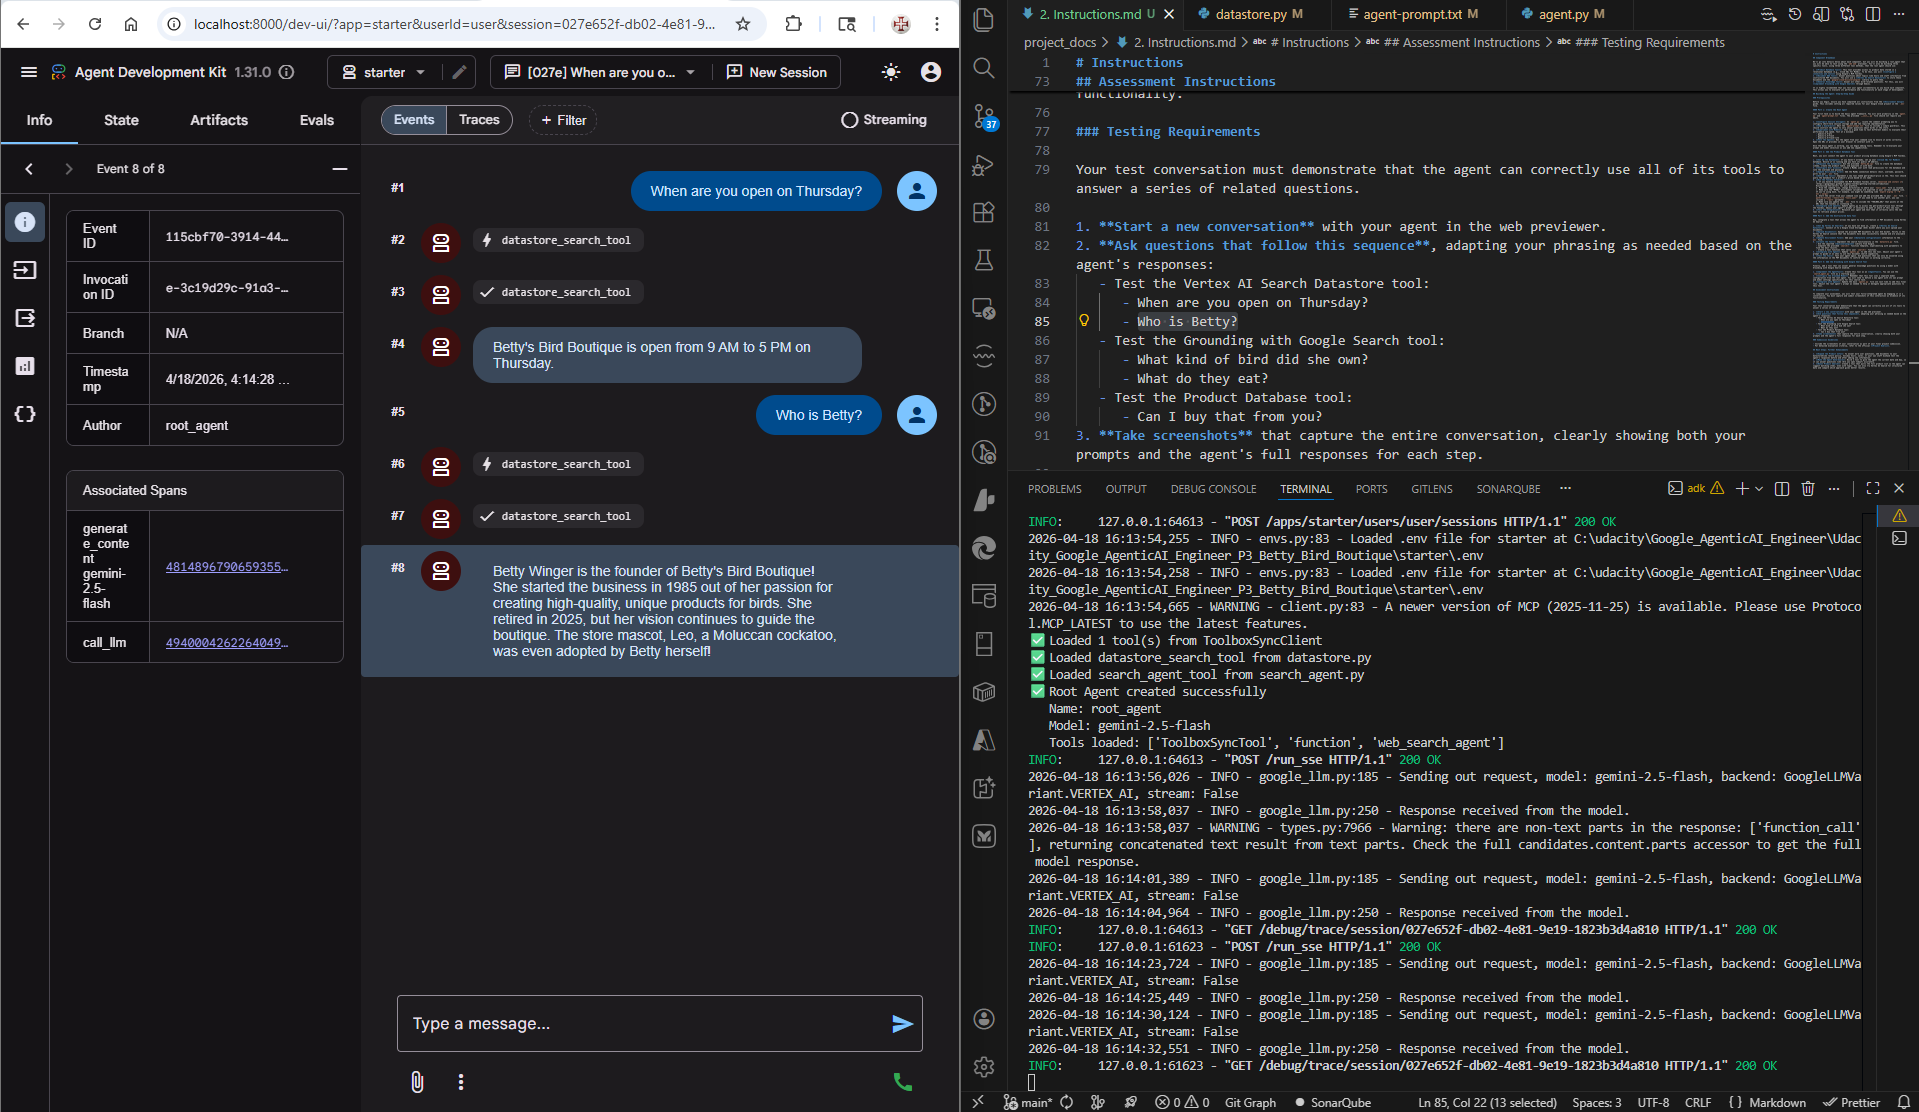
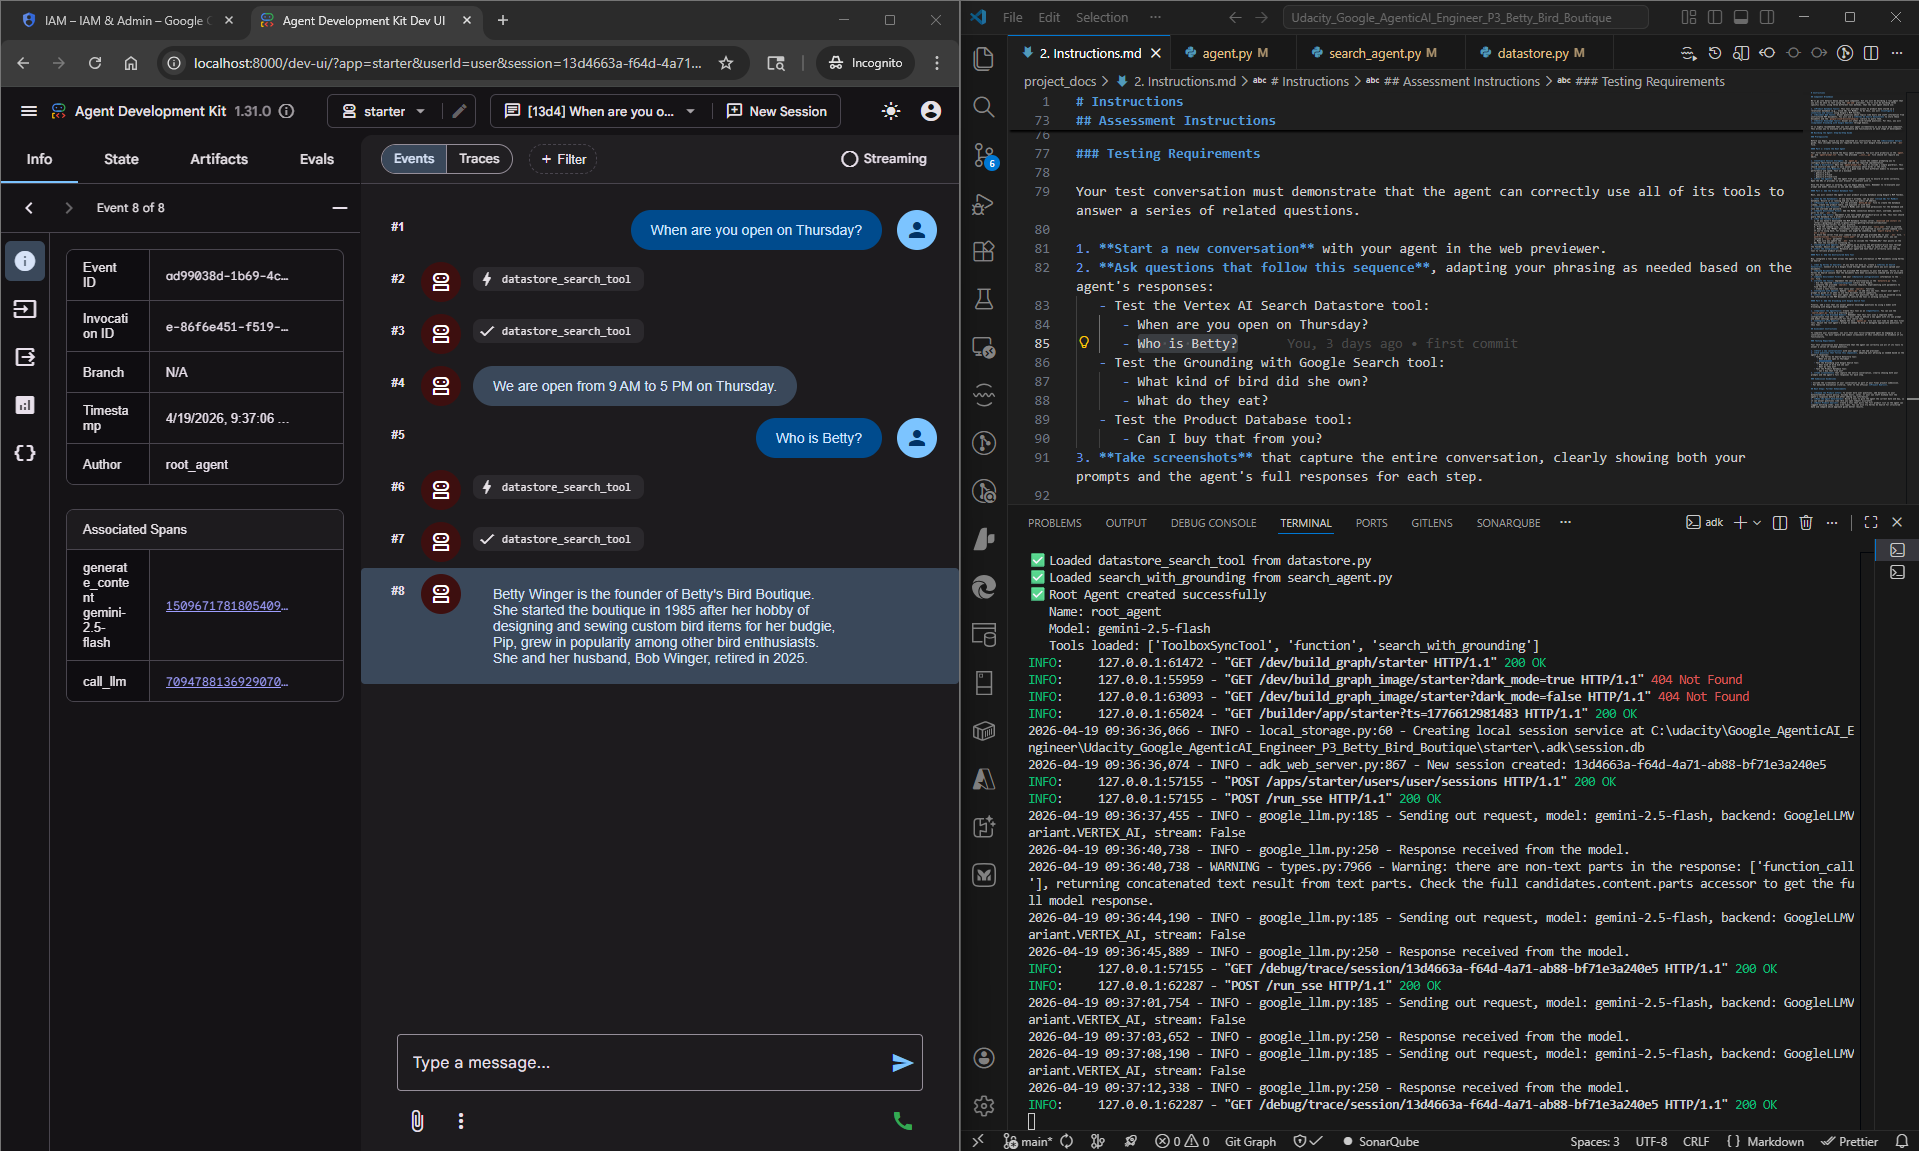
Latest changes after first submission review notes.

Changed region(s): [[0.0, 0.0, 1.0, 1.0], [0.2152, 0.9173, 0.3075, 0.9478], [0.4612, 0.9173, 0.4919, 0.9478]]

diff --git a/starter/agent.py b/starter/agent.py
@@ -5,19 +5,21 @@ from google.adk.runners import Runner
 from google.adk.sessions import InMemorySessionService
 from toolbox_core import ToolboxSyncClient
 from .datastore import datastore_search_tool
-from .search_agent import search_agent_tool
+from .search_agent import search_with_grounding
 
 # Load environment variables from .env
 load_dotenv()
 
 # Model definition
-# Selected for balance of speed and reasoning capability; 
+# Selected for balance of speed and reasoning capability;
 # gemini-2.5-pro offers better accuracy but slower response times,
 # while flash-lite is too lightweight for complex tool orchestration
-model=os.getenv("GEMINI_MODEL", "gemini-2.5-flash")
+model = os.getenv("GEMINI_MODEL", "gemini-2.5-flash")
 
 # Configure short-term session to use the in-memory service
-session_service = InMemorySessionService()  # ✅ RUBRIC REQUIREMENT: Session storage configured
+session_service = (
+    InMemorySessionService()
+)  # ✅ RUBRIC REQUIREMENT: Session storage configured
 
 # Read the instructions from a file in the same directory as this agent.py file.
 script_dir = os.path.dirname(os.path.abspath(__file__))
@@ -32,8 +34,8 @@ tools = []  # Start with empty list
 # This loads get_product_price from MySQL source via MCP Database Toolbox server
 try:
     db_client = ToolboxSyncClient(url=os.getenv("TOOLBOX_URL", "http://127.0.0.1:5000"))
-    database_tools = db_client.load_tool("get_product_price")       # ✅ RUBRIC REQUIREMENT: Load tool from toolbox server
-    tools.append(database_tools)                                    # Add all loaded tools to our list
+    database_tools = db_client.load_tool("get_product_price")  # ✅ RUBRIC REQUIREMENT: Load tool from toolbox server
+    tools.append(database_tools)  # Add all loaded tools to our list
     print(f"✅ Loaded {len(tools)} tool(s) from ToolboxSyncClient")
 except Exception as e:
     print("⚠ Warning: Could not load database tools. Ensure TOOLBOX_URL is set and server is running.")
@@ -41,27 +43,27 @@ except Exception as e:
 
 # Import datastore search tool (from separate file)
 try:
-    tools.append(datastore_search_tool)                             # ✅ RUBRIC REQUIREMENT: Datastore tool integrated
+    tools.append(datastore_search_tool)  # ✅ RUBRIC REQUIREMENT: Datastore tool integrated
     print("✅ Loaded datastore_search_tool from datastore.py")
 except Exception as e:
     print("⚠ Warning: Could not import datastore_search_tool.")
     print(f"   Error: {e}")
 
-# # Import web search tool (from separate file)
+# Import web search tool (from separate file)
 try:
-    tools.append(search_agent_tool)
-    print("✅ Loaded search_agent_tool from search_agent.py")
+    tools.append(search_with_grounding)
+    print("✅ Loaded search_with_grounding from search_agent.py")
 except Exception as e:
-    print("⚠ Warning: Could not import search_agent tool.")
+    print("⚠ Warning: Could not import search_with_grounding.")
     print(f"   Error: {e}")
 
 # Create your agent with proper configuration
 root_agent = Agent(
-    name="root_agent",                       # ✅ RUBRIC REQUIREMENT: Name configured
+    name="root_agent",          # ✅ RUBRIC REQUIREMENT: Name configured
     description="A helpful customer service agent for Betty's Bird Boutique, specializing in bird-related questions and store operations.",  # ✅ RUBRIC REQUIREMENT: Description configured
-    instruction=instruction,                 # ✅ RUBRIC REQUIREMENT: Instruction parameter reads from file
-    model=model,                             # ✅ RUBRIC REQUIREMENT: Selected for best balance of speed and reasoning capability
-    tools=tools,                             # ✅ RUBRIC REQUIREMENT: All required tools added to agent
+    instruction=instruction,    # ✅ RUBRIC REQUIREMENT: Instruction parameter reads from file
+    model=model,                # ✅ RUBRIC REQUIREMENT: Selected for best balance of speed and reasoning capability
+    tools=tools,                # ✅ RUBRIC REQUIREMENT: All required tools added to agent
 )
 
 # Print confirmation
@@ -69,12 +71,15 @@ print("✅ Root Agent created successfully")
 print(f"   Name: {root_agent.name}")
 print(f"   Model: {root_agent.model}")
 if root_agent.tools:
-    print(f"   Tools loaded: {[getattr(t, 'name', type(t).__name__) for t in root_agent.tools]}")
+    print(
+        f"   Tools loaded: {[getattr(t, 'name', type(t).__name__) for t in root_agent.tools]}"
+    )
 else:
     print("   No tools loaded.")
 
+# Defines the ADK Runner for the root_agent
 runner = Runner(
     agent=root_agent,
-    session_service=session_service,         # ✅ RUBRIC REQUIREMENT: InMemorySessionService passed to the Runner
+    session_service=session_service,  # ✅ RUBRIC REQUIREMENT: InMemorySessionService passed to the Runner
     app_name="bettys_bird_boutique",
 )

diff --git a/starter/datastore.py b/starter/datastore.py
@@ -7,6 +7,7 @@ from google.cloud import storage
 # Load environment variables from .env
 load_dotenv()
 
+
 def fetch_gcs_content(gcs_uri: str) -> str:
     """
     Fetch the text content of a file from Google Cloud Storage.
@@ -29,6 +30,7 @@ def fetch_gcs_content(gcs_uri: str) -> str:
     except Exception as e:
         return f"[Could not fetch content from {gcs_uri}: {e}]"
 
+
 # Definition of a tool that accesses a Vertex AI Search Datastore
 #
 # This is based on code provided by Google at
@@ -46,6 +48,47 @@ def search(
     engine_id: str,
     search_query: str,
 ) -> list[str]:
+    """
+    Search Vertex AI Search Datastore for relevant documents and content.
+
+    This function performs a search query against the Vertex AI Search Datastore,
+    retrieving document metadata and optionally fetching raw content from Google Cloud Storage (GCS)
+    when available. It includes deduplication logic to avoid duplicate results from different file formats
+    of the same document.
+
+    Args:
+        project_id (str): The Google Cloud project ID containing the search engine.
+        location (str): The geographic region where the search engine is located. 
+                        Common values include "global" or specific regions like "us-central1".
+        engine_id (str): The unique identifier for the search engine within the project.
+        search_query (str): The text query to search for in the datastore.
+
+    Returns:
+        list[str]: A list of strings containing search results in the format:
+                   - For documents with fetchable content: "Title: {title}\nSource: {link}\nContent:\n{content}"
+                   - For documents without fetchable content or non-text files: "Title: {title}\nSource: {link}"
+                   Returns ["No results found."] if no matching documents are found.
+
+    Raises:
+        Exception: If the search client cannot be created, request fails, or any other error occurs during execution.
+
+    Example:
+        >>> results = search(
+        ...     project_id="my-project",
+        ...     location="us-central1",
+        ...     engine_id="bird-boutique-search-engine",
+        ...     search_query="parrot care guide"
+        ... )
+        >>> for result in results:
+        ...     print(result)
+
+    Notes:
+        - Automatically deduplicates documents that appear as both .txt and .pdf versions.
+        - Only fetches GCS content when the datastore flags it as fetchable AND the link points to a plain-text file (.txt).
+        - Falls back to metadata-only results for non-text files or non-fetchable documents.
+        - Includes spell correction and query expansion enabled by default.
+    """
+    
     client_options = (
         ClientOptions(api_endpoint=f"{location}-discoveryengine.googleapis.com")
         if location != "global"
@@ -79,9 +122,9 @@ def search(
     for result in page_result:
         struct_data = result.document.derived_struct_data
 
-        title_str = struct_data.get("title", "Unknown title")
-        link_str = struct_data.get("link", "Unknown source")
-        can_fetch = struct_data.get("can_fetch_raw_content", "false")
+        title_str = struct_data.get("title", "Unknown title")  # type: ignore
+        link_str = struct_data.get("link", "Unknown source")  # type: ignore
+        can_fetch = struct_data.get("can_fetch_raw_content", "false")  # type: ignore
 
         # Only fetch GCS content when the datastore flagged it as fetchable
         # and the link points to a plain-text file to avoid binary content

diff --git a/starter/search_agent.py b/starter/search_agent.py
@@ -7,10 +7,10 @@ from google.adk.tools import google_search, AgentTool
 load_dotenv()
 
 # Model definition
-# Selected for balance of speed and reasoning capability; 
+# Selected for balance of speed and reasoning capability;
 # gemini-2.5-pro offers better accuracy but slower response times,
 # while flash-lite is too lightweight for complex tool orchestration
-model=os.getenv("GEMINI_MODEL", "gemini-2.5-flash")
+model = os.getenv("GEMINI_MODEL", "gemini-2.5-flash")
 
 # Definition of an agent tool that accesses Grounding with Google Search
 # Read the instructions from a file in the same directory as this file.
@@ -19,17 +19,15 @@ instruction_file_path = os.path.join(script_dir, "search-prompt.txt")
 with open(instruction_file_path, "r") as f:
     instruction = f.read()
 
-tools = [
-    google_search
-]
+tools = [google_search]  # ✅ Grounding enabled by default in ADK
 
 # Completed: Implement - Create search agent with Google Search grounding
 search_agent = Agent(
-    name="web_search_agent",
+    name="search_with_grounding",
     description="Specializes in answering general bird-related questions using web search grounding.",
     instruction=instruction,
     model=model,
-    tools=tools, # type: ignore
+    tools=tools,  # type: ignore
 )
 
-search_agent_tool = AgentTool(agent=search_agent)
+search_with_grounding = AgentTool(agent=search_agent)
